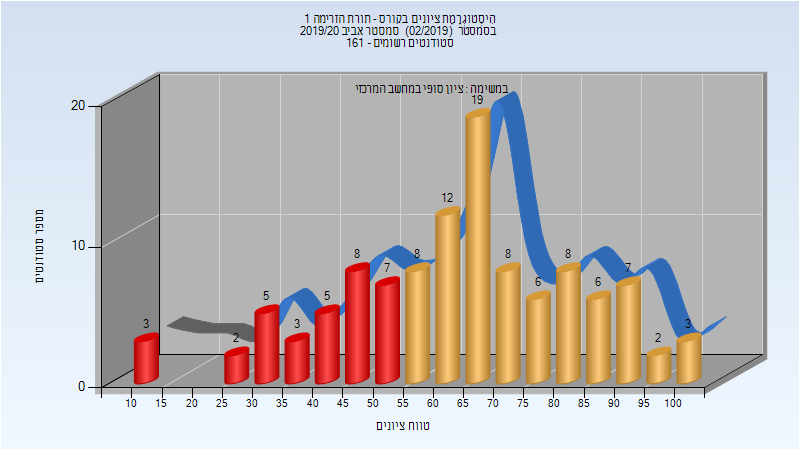
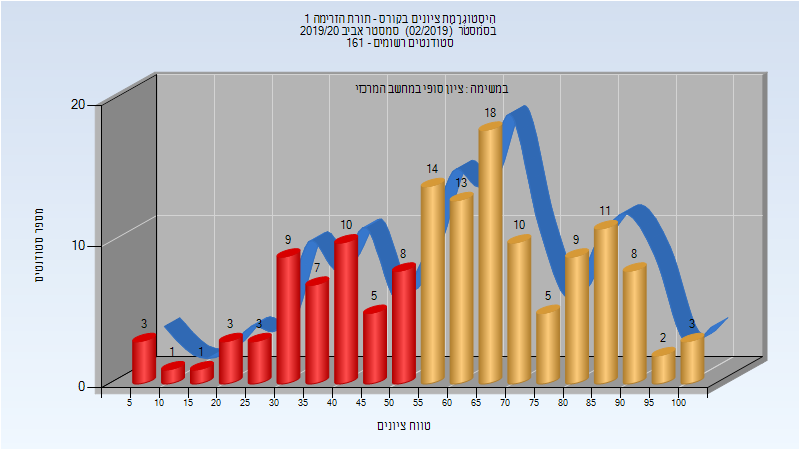
Deploy michael-maltsev/technion-histograms to github.com/michael-maltsev/technion-histograms.git:gh-pages

Changed region(s): [[0.0938, 0.1556, 0.9688, 0.9022], [0.0312, 0.4667, 0.0625, 0.6222], [0.4688, 0.9333, 0.5625, 0.9644]]

diff --git a/034032/index.html b/034032/index.html
@@ -1051,6 +1051,58 @@
 </tr>
 </tbody>
 </table>
+<h3>מבחן מועד ב'</h3>
+<p><img src="201902/Exam_B.png" alt="201902 Exam_B" /></p>
+<table>
+<thead>
+<tr>
+<th>סטודנטים</th>
+<th>עברו/נכשלו</th>
+<th>אחוז עוברים</th>
+<th>ציון מינימלי</th>
+<th>ציון מקסימלי</th>
+<th>ממוצע</th>
+<th>חציון</th>
+</tr>
+</thead>
+<tbody>
+<tr>
+<td>45</td>
+<td>29/16</td>
+<td>64</td>
+<td>17</td>
+<td>108</td>
+<td>62.256</td>
+<td>66</td>
+</tr>
+</tbody>
+</table>
+<h3>סופי מועד ב'</h3>
+<p><img src="201902/Final_B.png" alt="201902 Final_B" /></p>
+<table>
+<thead>
+<tr>
+<th>סטודנטים</th>
+<th>עברו/נכשלו</th>
+<th>אחוז עוברים</th>
+<th>ציון מינימלי</th>
+<th>ציון מקסימלי</th>
+<th>ממוצע</th>
+<th>חציון</th>
+</tr>
+</thead>
+<tbody>
+<tr>
+<td>45</td>
+<td>32/13</td>
+<td>71</td>
+<td>17</td>
+<td>100</td>
+<td>67.867</td>
+<td>74</td>
+</tr>
+</tbody>
+</table>
 <h3>סופי</h3>
 <p><img src="201902/Finals.png" alt="201902 Finals" /></p>
 <table>
@@ -1068,11 +1120,11 @@
 <tbody>
 <tr>
 <td>115</td>
-<td>95/20</td>
+<td>96/19</td>
 <td>83</td>
 <td>15</td>
 <td>100</td>
-<td>74.087</td>
+<td>74.226</td>
 <td>77</td>
 </tr>
 </tbody>

diff --git a/034013/index.html b/034013/index.html
@@ -1260,11 +1260,11 @@
 <tbody>
 <tr>
 <td>71</td>
-<td>23/48</td>
-<td>32</td>
+<td>24/47</td>
+<td>34</td>
 <td>7</td>
 <td>90</td>
-<td>46.915</td>
+<td>47.197</td>
 <td>44</td>
 </tr>
 </tbody>
@@ -1285,13 +1285,13 @@
 </thead>
 <tbody>
 <tr>
-<td>112</td>
-<td>79/33</td>
-<td>71</td>
-<td>12</td>
-<td>100</td>
-<td>63.562</td>
+<td>143</td>
+<td>93/50</td>
 <td>65</td>
+<td>7</td>
+<td>100</td>
+<td>60.385</td>
+<td>62</td>
 </tr>
 </tbody>
 </table>

diff --git a/034032/README.md b/034032/README.md
@@ -327,11 +327,27 @@
 | ---- | ---- | ---- | ---- | ---- | ---- | ---- |
 | 115 | 95/20 | 83 | 15 | 100 | 74.087 | 77 |
 
+### מבחן מועד ב'
+
+![201902 Exam_B](201902/Exam_B.png)
+
+| סטודנטים | עברו/נכשלו | אחוז עוברים | ציון מינימלי | ציון מקסימלי | ממוצע | חציון |
+| ---- | ---- | ---- | ---- | ---- | ---- | ---- |
+| 45 | 29/16 | 64 | 17 | 108 | 62.256 | 66 |
+
+### סופי מועד ב'
+
+![201902 Final_B](201902/Final_B.png)
+
+| סטודנטים | עברו/נכשלו | אחוז עוברים | ציון מינימלי | ציון מקסימלי | ממוצע | חציון |
+| ---- | ---- | ---- | ---- | ---- | ---- | ---- |
+| 45 | 32/13 | 71 | 17 | 100 | 67.867 | 74 |
+
 ### סופי
 
 ![201902 Finals](201902/Finals.png)
 
 | סטודנטים | עברו/נכשלו | אחוז עוברים | ציון מינימלי | ציון מקסימלי | ממוצע | חציון |
 | ---- | ---- | ---- | ---- | ---- | ---- | ---- |
-| 115 | 95/20 | 83 | 15 | 100 | 74.087 | 77 |
+| 115 | 96/19 | 83 | 15 | 100 | 74.226 | 77 |
 

diff --git a/034013/README.md b/034013/README.md
@@ -392,7 +392,7 @@
 
 | סטודנטים | עברו/נכשלו | אחוז עוברים | ציון מינימלי | ציון מקסימלי | ממוצע | חציון |
 | ---- | ---- | ---- | ---- | ---- | ---- | ---- |
-| 71 | 23/48 | 32 | 7 | 90 | 46.915 | 44 |
+| 71 | 24/47 | 34 | 7 | 90 | 47.197 | 44 |
 
 ### סופי
 
@@ -400,5 +400,5 @@
 
 | סטודנטים | עברו/נכשלו | אחוז עוברים | ציון מינימלי | ציון מקסימלי | ממוצע | חציון |
 | ---- | ---- | ---- | ---- | ---- | ---- | ---- |
-| 112 | 79/33 | 71 | 12 | 100 | 63.562 | 65 |
+| 143 | 93/50 | 65 | 7 | 100 | 60.385 | 62 |
 
